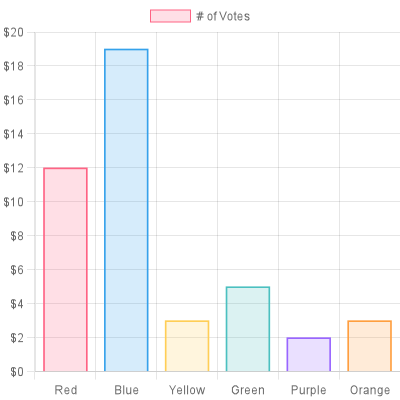
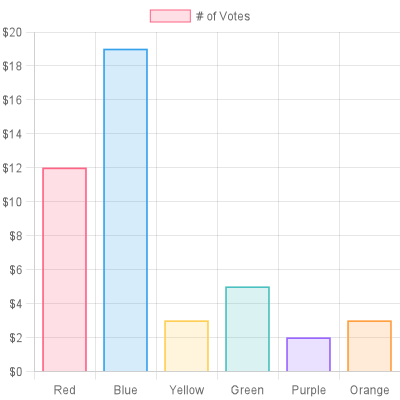
Updated to canvas 2.11.2

diff --git a/src/index.e2e.spec.ts b/src/index.e2e.spec.ts
@@ -199,6 +199,7 @@ describe(ChartJSNodeCanvas.name, () => {
 			data: {
 				labels: [1, 2, 3, 4, 5, 6, 7, 8, 9, 10] as any,
 				datasets: [{
+					label: 'Red',
 					backgroundColor: chartColors.red,
 					data: [12, 19, 3, 5, 2, 3],
 					datalabels: {
@@ -206,6 +207,7 @@ describe(ChartJSNodeCanvas.name, () => {
 						anchor: 'start'
 					}
 				}, {
+					label: 'Blue',
 					backgroundColor: chartColors.blue,
 					data: [3, 5, 2, 3, 30, 15, 19, 2],
 					datalabels: {
@@ -213,6 +215,7 @@ describe(ChartJSNodeCanvas.name, () => {
 						anchor: 'center'
 					}
 				}, {
+					label: 'Green',
 					backgroundColor: chartColors.green,
 					data: [12, 19, 3, 5, 2, 3],
 					datalabels: {

diff --git a/src/animatedChartJSNodeCanvas.ts b/src/animatedChartJSNodeCanvas.ts
@@ -103,7 +103,7 @@ export class AnimatedChartJSNodeCanvas extends ChartJSNodeCanvasBase {
 		global.window.cancelAnimationFrame = animationFrameProvider.cancelAnimationFrame;
 		const context = canvas.getContext('2d');
 		(global as any).Image = this._image; // Some plugins use this API
-		const chart = new this._chartJs(context, configuredChartConfig);
+		const chart = new this._chartJs((context as any), configuredChartConfig);
 		delete (global as any).Image;
 		return chart;
 	}

diff --git a/src/chartJSNodeCanvas.ts b/src/chartJSNodeCanvas.ts
@@ -132,7 +132,7 @@ export class ChartJSNodeCanvas extends ChartJSNodeCanvasBase {
 		configuration.options.animation = false;
 		const context = canvas.getContext('2d');
 		(global as any).Image = this._image; // Some plugins use this API
-		const chart = new this._chartJs(context, configuration);
+		const chart = new this._chartJs((context as any), configuration);
 		delete (global as any).Image;
 		return chart;
 	}
